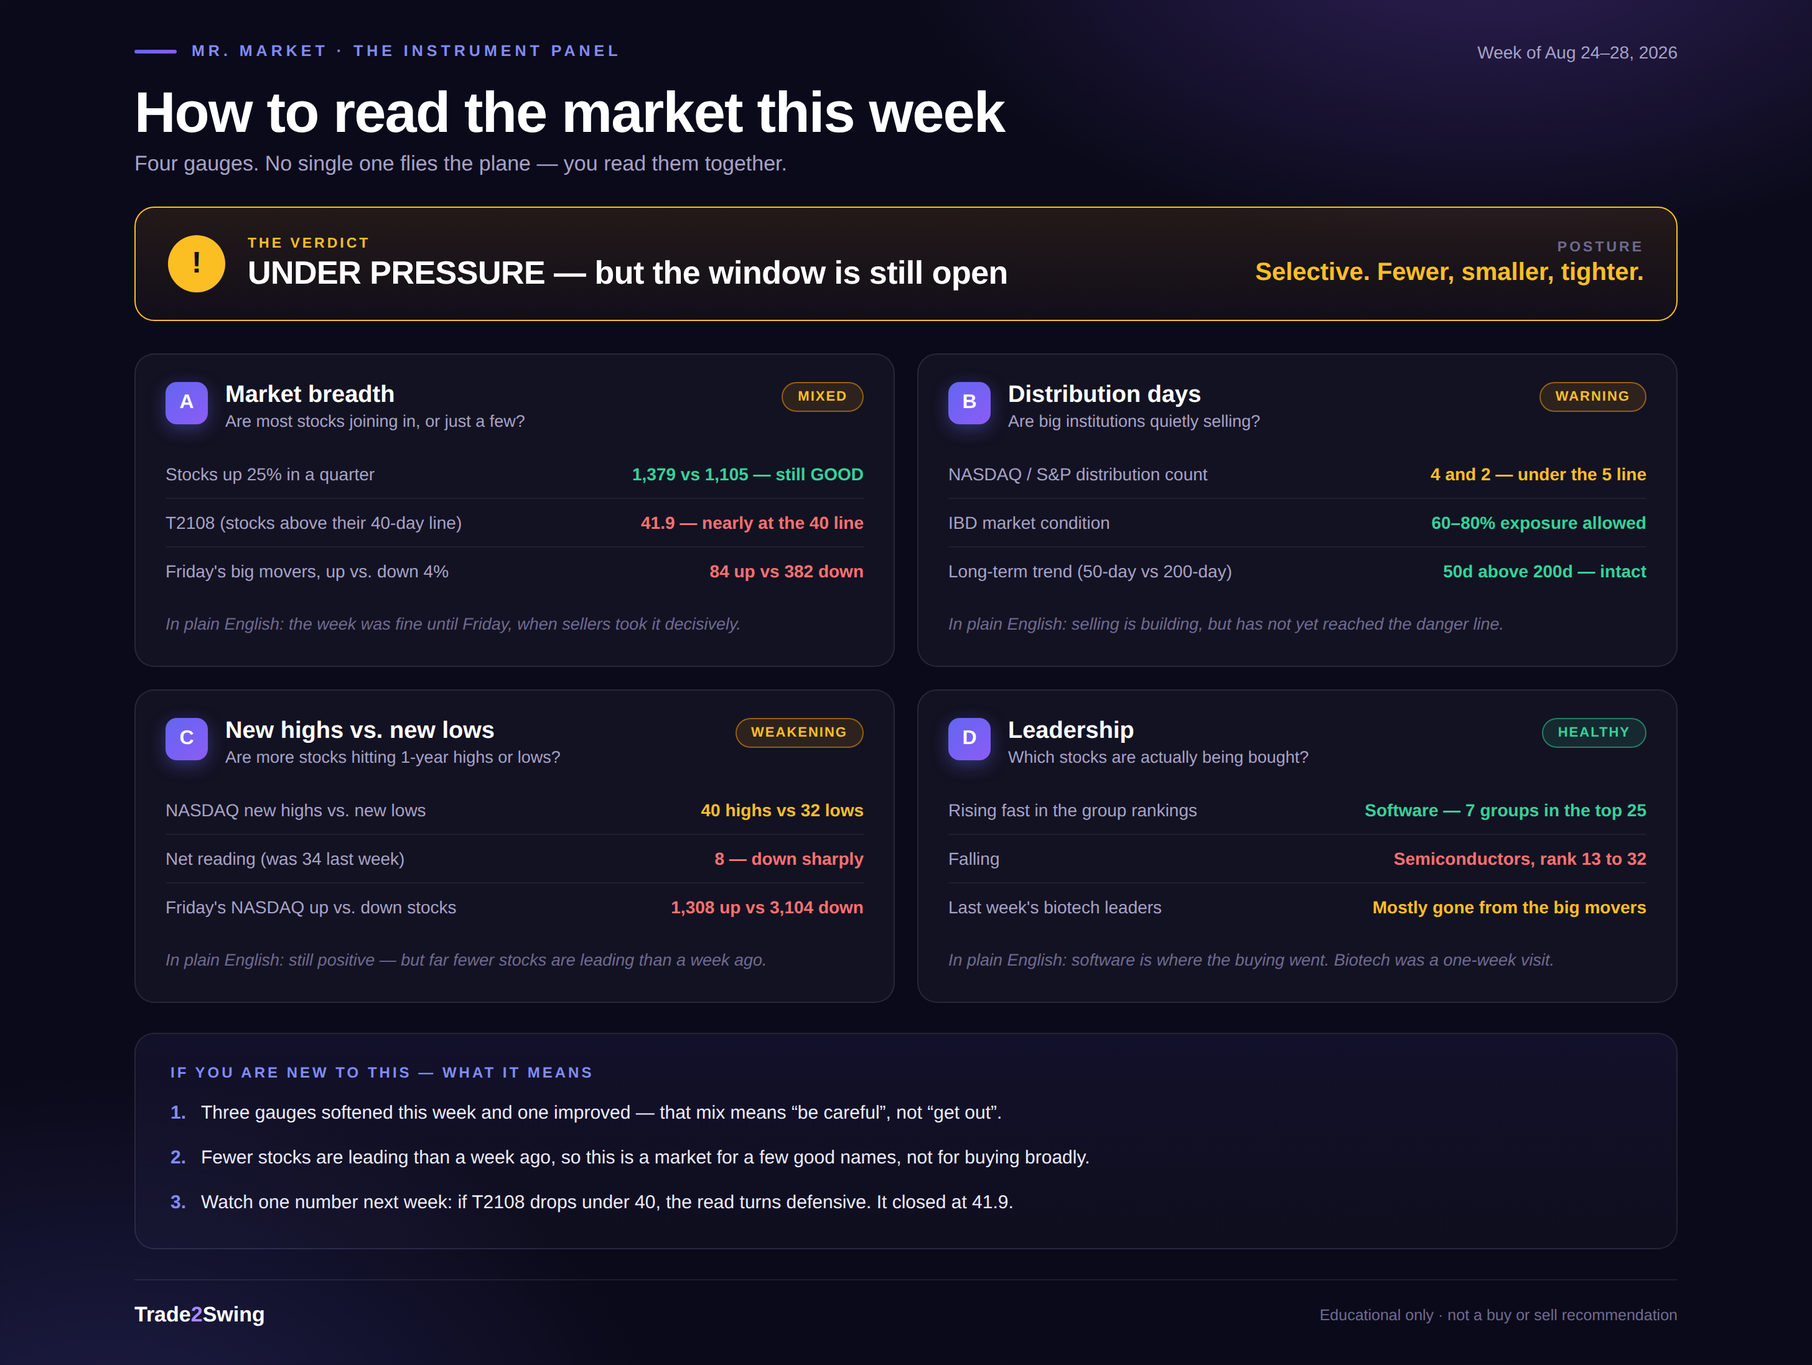
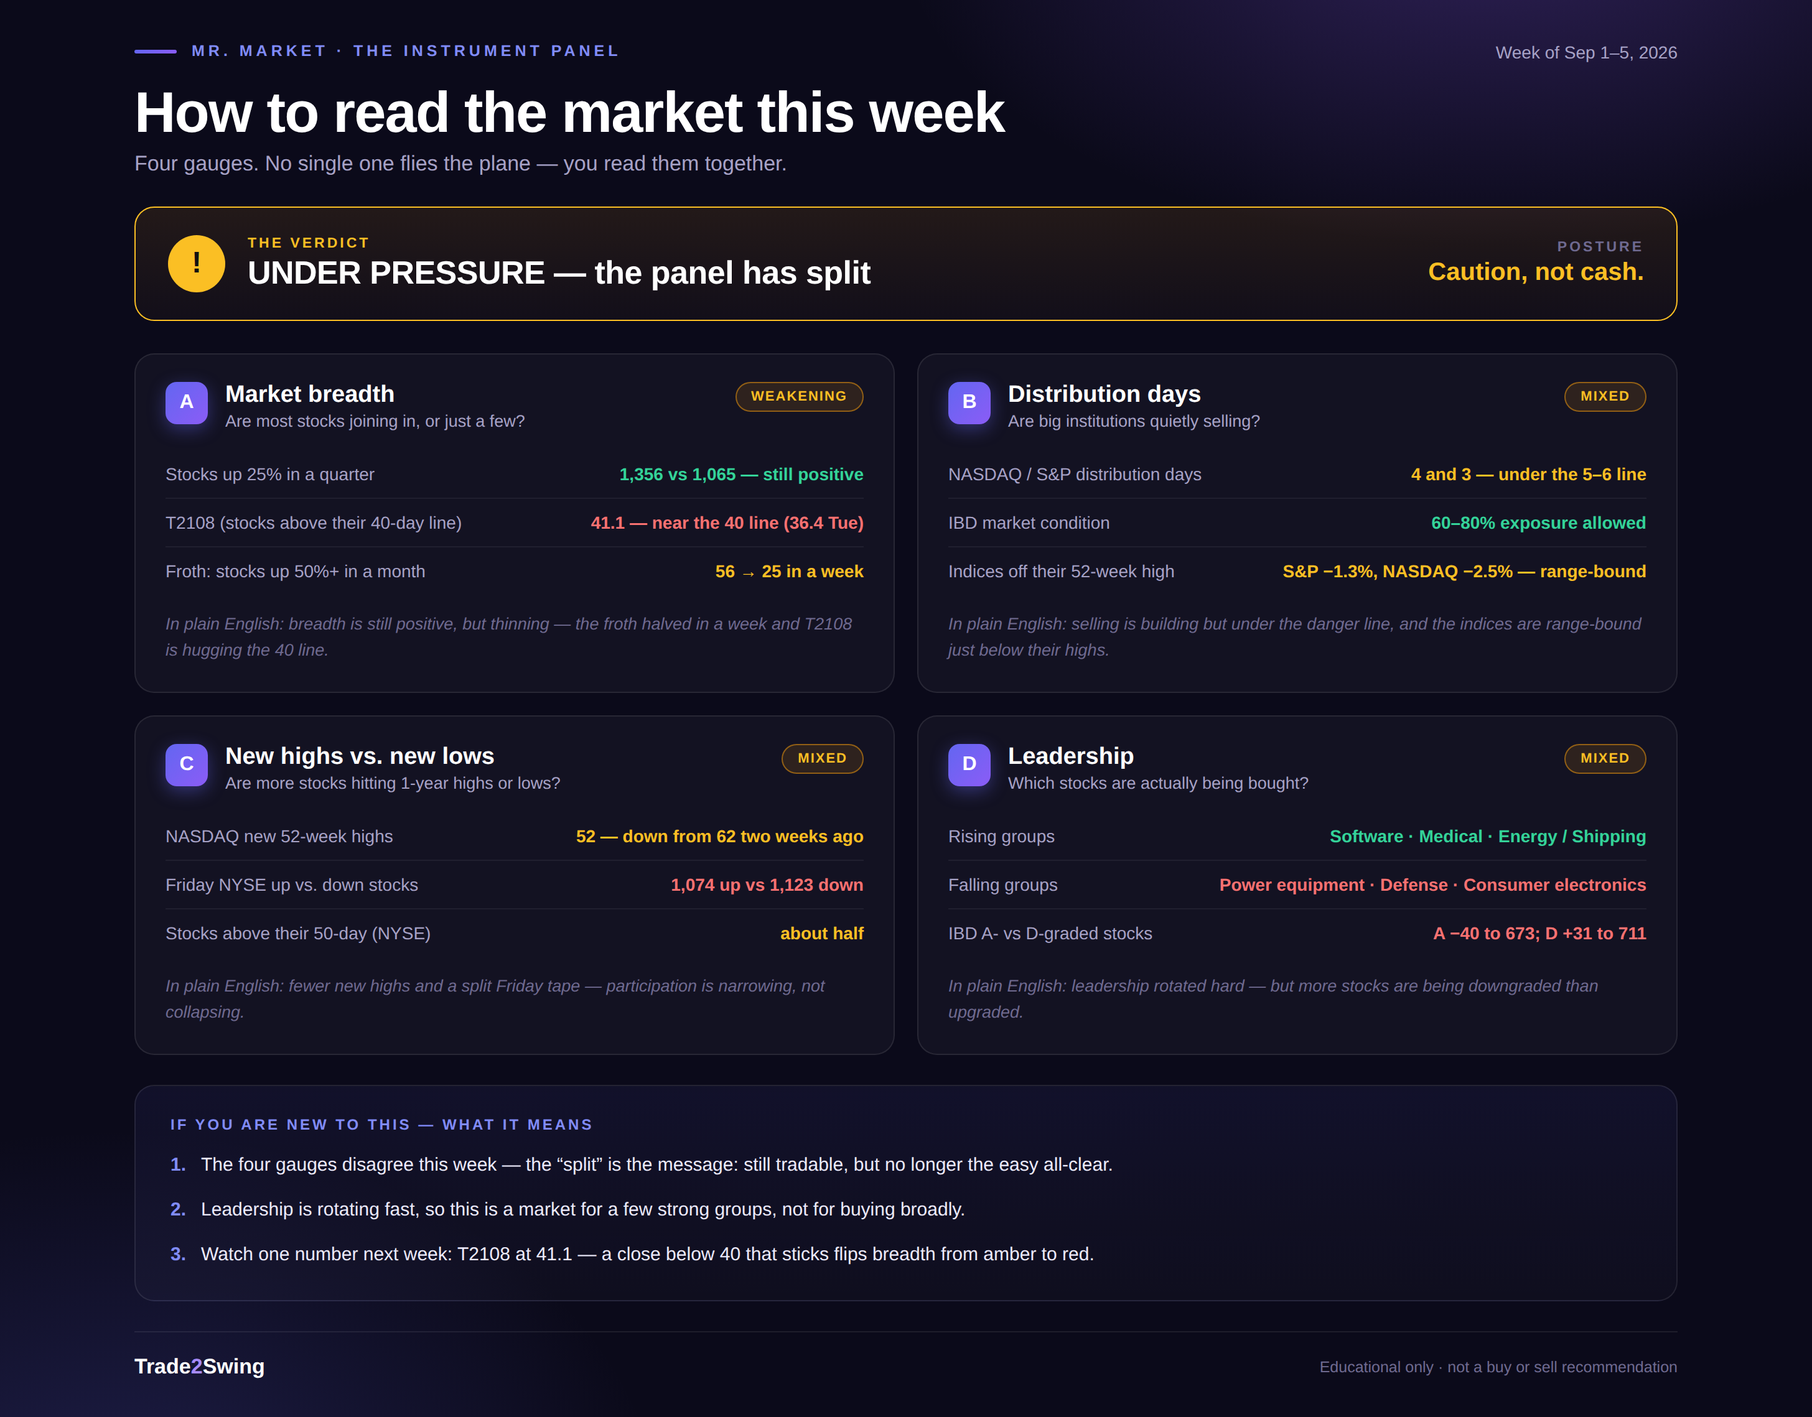
Weekly Mr. Market panel — Week of Sep 1–5, 2026

diff --git a/dashboard/mr-market-panel.html b/dashboard/mr-market-panel.html
@@ -146,13 +146,13 @@ h1{font-family:var(--font-head);font-weight:800;font-size:clamp(28px,4.4vw,46px)
 <script>
 /* ============================ EDIT ME EACH WEEK ============================ */
 const WEEK = {
-  "week": "Week of Aug 31–Sep 4, 2026",
+  "week": "Week of Sep 1–5, 2026",
   "title": "How to read the market this week",
-  "articleUrl": "https://trade2swing.substack.com/p/09-07-2026-the-number-we-were-watching",
+  "articleUrl": "https://trade2swing.substack.com/p/09-05-2026-the-panel-splits",
   "verdict": {
     "level": "amber",
-    "label": "UNDER PRESSURE — the line broke and healed",
-    "posture": "Selective. Fewer, smaller, tighter."
+    "label": "UNDER PRESSURE — the panel has split",
+    "posture": "Caution, not cash."
   },
   "gauges": [
     {
@@ -160,81 +160,81 @@ const WEEK = {
       "name": "Market breadth",
       "q": "Are most stocks joining in, or just a few?",
       "status": {
-        "t": "WARNING",
+        "t": "WEAKENING",
         "c": "amber"
       },
       "rows": [
         {
-          "l": "Stocks up 25% in a quarter",
-          "v": "1,356 vs 1,065 — still GOOD",
-          "c": "green"
-        },
-        {
           "l": "T2108 (stocks above their 40-day line)",
-          "v": "41.1 — traded down to 36.4 midweek",
+          "v": "41.1, down from 41.9 (touched 36.4 Tue)",
           "c": "red"
         },
         {
-          "l": "Stocks up 25% in a month vs down",
-          "v": "114 vs 110 — dead even, was 256 vs 90",
-          "c": "red"
+          "l": "Stocks up 25%+ in a month",
+          "v": "256 → 114 this week",
+          "c": "amber"
+        },
+        {
+          "l": "Stocks up 50%+ in a month (froth)",
+          "v": "56 → 25 this week",
+          "c": "amber"
         }
       ],
-      "note": "In plain English: the line we said to watch got breached this week and then walked back — that's a warning, not a verdict."
+      "note": "In plain English: breadth cooled sharply this week — momentum thinned across the board even though the three-month base is still intact."
     },
     {
       "key": "B",
       "name": "Distribution days",
       "q": "Are big institutions quietly selling?",
       "status": {
-        "t": "WARNING",
+        "t": "MIXED",
         "c": "amber"
       },
       "rows": [
         {
-          "l": "NASDAQ / S&P distribution count",
-          "v": "4 and 3 — building, still under the 5 line",
+          "l": "NASDAQ / S&P distribution days",
+          "v": "4 and 3 — under the 5–6 line",
           "c": "amber"
         },
         {
-          "l": "Index off 52-week highs",
-          "v": "NASDAQ -2.5%, S&P -1.3% — still near the top",
+          "l": "Institutional buying grade (IBD)",
+          "v": "S&P B−, NASDAQ B",
           "c": "amber"
         },
         {
-          "l": "Long-term trend (50-day vs 200-day)",
-          "v": "50d above 200d — intact",
+          "l": "IBD market exposure guidance",
+          "v": "60–80% allowed",
           "c": "green"
         }
       ],
-      "note": "In plain English: selling is building while both indexes sit within 3% of their highs — supply meeting demand with nothing on the price chart to warn you yet."
+      "note": "In plain English: selling is building but still under the danger line — the NASDAQ is a session or two from getting concerning though."
     },
     {
       "key": "C",
       "name": "New highs vs. new lows",
       "q": "Are more stocks hitting 1-year highs or lows?",
       "status": {
-        "t": "WEAKENING",
+        "t": "MIXED",
         "c": "amber"
       },
       "rows": [
         {
-          "l": "Friday's NASDAQ up vs. down stocks",
-          "v": "2,253 up vs 2,125 down — modestly positive",
-          "c": "green"
-        },
-        {
-          "l": "Friday's NYSE up vs. down stocks",
-          "v": "1,074 up vs 1,123 down — modestly negative",
+          "l": "NASDAQ new 52-week highs (Friday)",
+          "v": "52 — down from 62 two weeks ago",
           "c": "amber"
         },
         {
-          "l": "NASDAQ net new highs",
-          "v": "flipped negative Mon–Tue, positive again by Friday",
+          "l": "Friday NYSE up vs. down stocks",
+          "v": "1,074 up vs 1,123 down",
+          "c": "red"
+        },
+        {
+          "l": "Stocks above their 50-day (NYSE)",
+          "v": "exactly half",
           "c": "amber"
         }
       ],
-      "note": "In plain English: NASDAQ breadth beat NYSE breadth this week — a narrower, growth-led tape, not a broad one."
+      "note": "In plain English: rallies are being carried by a shrinking group of stocks, not broad participation."
     },
     {
       "key": "D",
@@ -246,28 +246,28 @@ const WEEK = {
       },
       "rows": [
         {
-          "l": "Top-ranked industry groups",
-          "v": "Security Software #9, Enterprise #8, Hardware #6",
-          "c": "green"
+          "l": "IBD A- vs D-graded stocks",
+          "v": "A −40 to 673; D +31 to 711",
+          "c": "red"
         },
         {
-          "l": "Fastest 6-week risers",
-          "v": "Finance-Crypto 135→21, Cannabis 119→19 — speculative",
+          "l": "Best leaders' volume",
+          "v": "TARS +9.1%, MU +6.1% — both lighter than normal",
           "c": "amber"
         },
         {
-          "l": "Monster-footprint list",
-          "v": "44 names, biotech-heavy — matches sector re-acceleration",
-          "c": "green"
+          "l": "MU volume vs normal",
+          "v": "13% lighter than normal on a 6.1% gain",
+          "c": "amber"
         }
       ],
-      "note": "In plain English: real leadership (software) is still intact, but the fastest movers are speculative pockets — smaller size, faster stops."
+      "note": "In plain English: real buying exists, but it isn't showing the volume conviction of serious institutional backing."
     }
   ],
   "newbie": [
-    "Two gauges are flashing caution (breadth and distribution) while leadership still holds — that mix means “stay selective,” not “get out.”",
-    "The number we were watching, T2108, actually broke below 40 this week before recovering — a preview of what a real breakdown would look like.",
-    "Watch T2108 again next week: a Friday close below 40, not just a dip during the week, is what would flip this to defense."
+    "Two indexes, two stories: when the S&P and NASDAQ disagree, the market has lost its clean all-clear signal and moved into a caution zone — pick selectively rather than buy broadly.",
+    "Volume tells the real story: rising prices on lighter-than-normal volume means buyers exist but aren't fully committed — a classic sign of a tiring market, not an accelerating one.",
+    "Watch T2108 at 41.1: a close below 40 that sticks flips the posture from caution to defense."
   ]
 };
 /* ========================== END EDIT ME EACH WEEK ========================== */

diff --git a/market-summary.html b/market-summary.html
@@ -78,15 +78,15 @@
 
     <div class="week-head">
       <div class="wh-main">
-        <div class="eyebrow">This week &middot; <!--WK:dates-->Aug 31&ndash;Sep 4, 2026<!--/WK:dates--></div>
-        <h2 style="margin-bottom:12px"><!--WK:headline-->The 40 line broke, then closed above it<!--/WK:headline--></h2>
-        <p class="lead"><!--WK:summary-->The market stayed under pressure this week &mdash; same regime as last week, but the number we said would flip it got tested directly. T2108 (stocks above their 40-day line) traded as low as 36.4 on Tuesday, breaking below the 40 line for three straight sessions, before closing Friday at 41.1. Quarterly breadth still favors longs (1,356 vs 1,065), which is why this isn't defense yet. Monthly breadth collapsed to near dead-even (114 vs 110, from 256 vs 90 a week ago), and distribution is quietly building (4 days on the NASDAQ, 3 on the S&amp;P) while both indexes sit within 3% of their highs. Leadership held in software (Security Software group 9th of 200) while speculative pockets (crypto, cannabis) ran hot. The net read: <b>under pressure &mdash; selective, fewer, smaller, tighter</b>. The one number to watch is T2108 at 41.1; a Friday close under 40 turns this defensive.<!--/WK:summary--></p>
+        <div class="eyebrow">This week &middot; <!--WK:dates-->Sep 1&ndash;5, 2026<!--/WK:dates--></div>
+        <h2 style="margin-bottom:12px"><!--WK:headline-->The panel splits<!--/WK:headline--></h2>
+        <p class="lead"><!--WK:summary-->The panel split this week — the S&amp;P and NASDAQ are no longer telling the same story. The S&amp;P remains in an uptrend while the NASDAQ has gone sideways for six weeks, and that disagreement cost the market its clean all-clear signal. Breadth cooled hard: T2108 slipped to 41.1 (after touching 36.4 on Tuesday) from 41.9, and momentum thinned — stocks up 50%+ in a month fell from 56 to 25, and stocks up 25%+ in a month fell from 256 to 114. Distribution is still under the line (3 on the S&amp;P, 4 on the NASDAQ) and IBD still allows 60&ndash;80% exposure, but the best leaders (TARS +9.1%, MU +6.1%) are rising on lighter-than-normal volume — real buying without serious institutional backing. The net read: <b>under pressure &mdash; caution, not cash</b>. The one number to watch is T2108 at 41.1; a close below 40 that sticks turns breadth red.<!--/WK:summary--></p>
       </div>
       <aside id="verdict-card" class="verdict-card" data-level="amber">
         <div class="vk-label">The verdict</div>
-        <div class="vk-big"><!--WK:verdict-->UNDER PRESSURE — the line broke and healed<!--/WK:verdict--></div>
+        <div class="vk-big"><!--WK:verdict-->UNDER PRESSURE — the panel has split<!--/WK:verdict--></div>
         <div class="vk-posture-label">Posture</div>
-        <div class="vk-posture"><!--WK:posture-->Selective. Fewer, smaller, tighter.<!--/WK:posture--></div>
+        <div class="vk-posture"><!--WK:posture-->Caution, not cash.<!--/WK:posture--></div>
       </aside>
     </div>
 
@@ -111,7 +111,7 @@
     </p>
 
     <div class="hero-cta" style="margin-top:26px;gap:14px">
-      <a id="week-article" class="btn btn-primary" href="https://trade2swing.substack.com/p/09-07-2026-the-number-we-were-watching" target="_blank" rel="noopener">Read the full weekly analysis on Substack &#8599;</a>
+      <a id="week-article" class="btn btn-primary" href="https://trade2swing.substack.com/p/09-05-2026-the-panel-splits" target="_blank" rel="noopener">Read the full weekly analysis on Substack &#8599;</a>
       <a class="btn btn-ghost" href="/mr-market.html">How these four gauges work</a>
     </div>
 

diff --git a/Claude outputs/t2s_weekly_2026-09-04.md b/Claude outputs/t2s_weekly_2026-09-04.md
@@ -1,0 +1,82 @@
+![Leaders Light the Sector](leaders-light-the-sector-hero.png)
+
+# The Number We Were Watching, Broke — Then Healed
+
+*Week of August 31–September 4, 2026*
+
+## 🧭 This Week's Lesson: Stock First, Group Second
+
+Last week's Model Book study is this week's lead, because it changes how you should be scanning the tape right now: **[Leaders Light the Sector](https://trade2swing.com/model-book-2026-05-07-ftnt-crwd-leadership)**.
+
+The short version: on 05/07/2026, $FTNT and $CRWD broke out on monster institutional volume while their Security Software group still ranked 30th of 200. The group didn't confirm the move — it followed it, climbing to 9th by this Friday's data. Individual stock momentum lit the fuse; the group ranking was the smoke, not the spark. I've codified this as **[House Rule 02 — Stock First, Group Second](https://trade2swing.com/rules#stock-first)**, and it's now how I track leadership weekly on the **[Mr. Market — Leadership](https://trade2swing.com/mr-market-leadership)** page.
+
+Why it matters this week specifically: the group that ran on those two names is *still* sitting at 9th of 200 four months later — the leadership hasn't just held, the market has kept paying for it. That's the backdrop for everything below.
+
+## 📊 Snapshot
+
+The market stayed **under pressure** — same regime as last week, but the number we said would flip it, T2108, actually broke below 40 this week (as low as 36.4 on Tuesday) before closing Friday at 41.1. Quarterly breadth still favors longs (1,356 vs. 1,065), which is why this isn't a defensive call yet. Monthly breadth collapsed to dead even (114 vs. 110, from 256 vs. 90 a week ago) — a real deceleration. Distribution is building quietly while both indexes sit within 3% of their highs, which is why this stays selective rather than aggressive. The number to watch next week is the same one: a Friday close under 40 on T2108, not just an intraweek dip, is what turns this to defense.
+
+## 🎯 The Four-Instrument Read
+
+![Dashboard](dashboard.png)
+
+**A — [Market breadth](https://trade2swing.com/mr-market-breadth.html): WARNING.** The primary signal (stocks up 25%+ in a quarter, 1,356 vs. 1,065) still favors longs. But the 1-month version cratered to near-parity, and T2108 — stocks above their 40-day line — actually traded under 40 for three straight sessions (39.2 → 36.4 → 39.1) before closing the week at 41.1. That's the first real test of the line since this pullback began, and it passed, barely.
+
+**B — [Distribution & follow-through](https://trade2swing.com/mr-market-distribution.html): WARNING.** NASDAQ sits at 4 distribution days, the S&P ticked up to 3 — both still under the 5–6 cluster that would force a regime change. But both indexes are within 1.3–2.5% of their 52-week highs while this selling builds. That's the dangerous shape: supply meeting demand with nothing on the price chart yet to warn you. The 50-day still sits above the 200-day — the long-term trend hasn't cracked.
+
+**C — [New highs vs. new lows](https://trade2swing.com/mr-market-highs-lows.html): WEAKENING.** Friday's NASDAQ advance-decline line was modestly positive (2,253 vs. 2,125); NYSE's was modestly negative (1,074 vs. 1,123). That NASDAQ-over-NYSE gap is itself the signal — this is a narrower, growth-led tape, not a broad one. The net new-high count on NASDAQ flipped negative into Tuesday's low before recovering into Friday.
+
+**D — [Leadership](https://trade2swing.com/mr-market-leadership.html): MIXED.** Software groups still dominate the top of the rankings — Security Software 9th, Enterprise Software 8th, Hardware 6th — down slightly from seven groups in the top 25 last week, but the theme hasn't broken. The fastest risers, though, are speculative: Finance-Crypto rocketed from 135th to 21st, Cannabis from 119th to 19th. That's froth, not foundation — trade it smaller, if at all.
+
+## 📚 Sector Momentum
+
+*Directional, not cap-weighted — NASDAQ groups skew small-cap.*
+
+| Group | Rank now | 3 wks ago | 6 wks ago |
+|---|---|---|---|
+| Compsftwr-Secur | 9 | 4 | 7 |
+| Compsftwr-Enterprise | 8 | 10 | 117 |
+| Med-Research | 10 | 32 | 39 |
+| Med-Revenubio | 14 | 82 | 97 |
+| Finance-Crypto | 21 | 135 | 135 |
+| Cannabis | 19 | 85 | 119 |
+
+Security Software cooled slightly (4th → 9th) but is holding inside the top 10 — exactly the group $FTNT and $CRWD lit up in May. Biotech is re-accelerating fast: Med-Research and Med-Revenubio both climbed from the bottom third of 200 groups to the top 15 in six weeks. Meanwhile the NASDAQ-listed technology cohort averaged roughly +2.8% for the week versus the cap-weighted index's +0.4% — more stocks participating than the index alone suggests, which is constructive beneath a flat-looking tape.
+
+## 🔭 Monster Footprints
+
+*44 names this week; this export carries tickers only, no price or volume — so no structure calls, theme grouping only. Always for study, never a tip.*
+
+**Biotech/pharma dominates** — 13 of the 44 names: $SMMT · $EPRX · $VSTM · $CTMX · $TYRA · $MMED · $BHC · $TARS · $BLTE · $MLYS · $PTN · $NDRA · $FRVO. That's a direct match to this week's sector table above — Med-Research and Med-Revenubio both surging. $TARS also appears on IBD's 50 Best Price % Change list this week (+9.1%), which is real corroboration, not coincidence.
+
+**Energy/metals:** $SLB · $CRK · $GOLD · $REPX · $MXC.
+
+**Fintech/financial:** $HOOD · $VBNK · $RPAY · $CURR.
+
+**Consumer:** $AOUT · $WWW · $SMPL · $HELE.
+
+**Industrial/EV/security:** $CNH · $TITN · $NX · $DPRO · $FMC · $EOSE · $CHPT · $STDN · $BYRN · $CAMP · $DELL — and $VRNS, a cybersecurity name, which corroborates this week's lead story about Security Software leadership.
+
+Six symbols I can't confidently identify — $ASST, $IRD, $MRX, $FCUV, $KYIV, $AGMB — are listed as unidentified rather than guessed.
+
+**These are volume-and-price footprints, not setups.** A monster week usually leaves a name extended. Study them; don't chase them.
+
+## 📅 Watch, Ready & Earnings
+
+Full lists live here, always for study, never as a buy or sell recommendation:
+
+- **[Watch / Ready / IPO Radar](https://trade2swing.com/watch-ready-lists)**
+- **[Upcoming earnings](https://trade2swing.com/weekly-earnings)**
+- **[Full Model Book](https://trade2swing.com/model-book.html)**
+
+## 🗓 Housekeeping
+
+The gate hasn't changed: **under pressure, selective** — fewer new longs, smaller size, tighter stops, protect what's working. This week did answer last week's open question, though: T2108 didn't just approach 40, it traded through it for three sessions before recovering. That's not nothing — it's a preview of what a real breakdown looks like, and it means the margin for error next time is smaller. The single number to watch: a **Friday close** under 40 on T2108 — not an intraweek dip — is what would flip this to defense. On the upside, a re-acceleration in the quarterly breadth ratio alongside expanding new highs would upgrade this back toward a confirmed uptrend.
+
+---
+
+**Disclaimer:** This is not a buy or sell recommendation. All content on Trade2Swing — including market summaries, watch lists, charts, earnings data, and the Model Book — is published for educational and informational purposes only. Trading and investing in stocks involves substantial risk, including the possible loss of capital. Past performance and historical chart examples do not guarantee future results. Always do your own research and consider consulting a licensed financial advisor before making any investment decision. You are solely responsible for your own decisions.
+
+**CAN SLIM® trademark.** CAN SLIM® is a registered trademark of Investor's Business Daily, Inc. "CANSLIM" is used here as the common shorthand for the same methodology. Trade2Swing is an independent publication and is not affiliated with, endorsed by, or sponsored by Investor's Business Daily, Inc.
+
+**Attribution.** The market monitor is a member resource of the Stock Bee community, created by Pradeep Bonde (Easy Guru). Trade2Swing is independent and unaffiliated.
